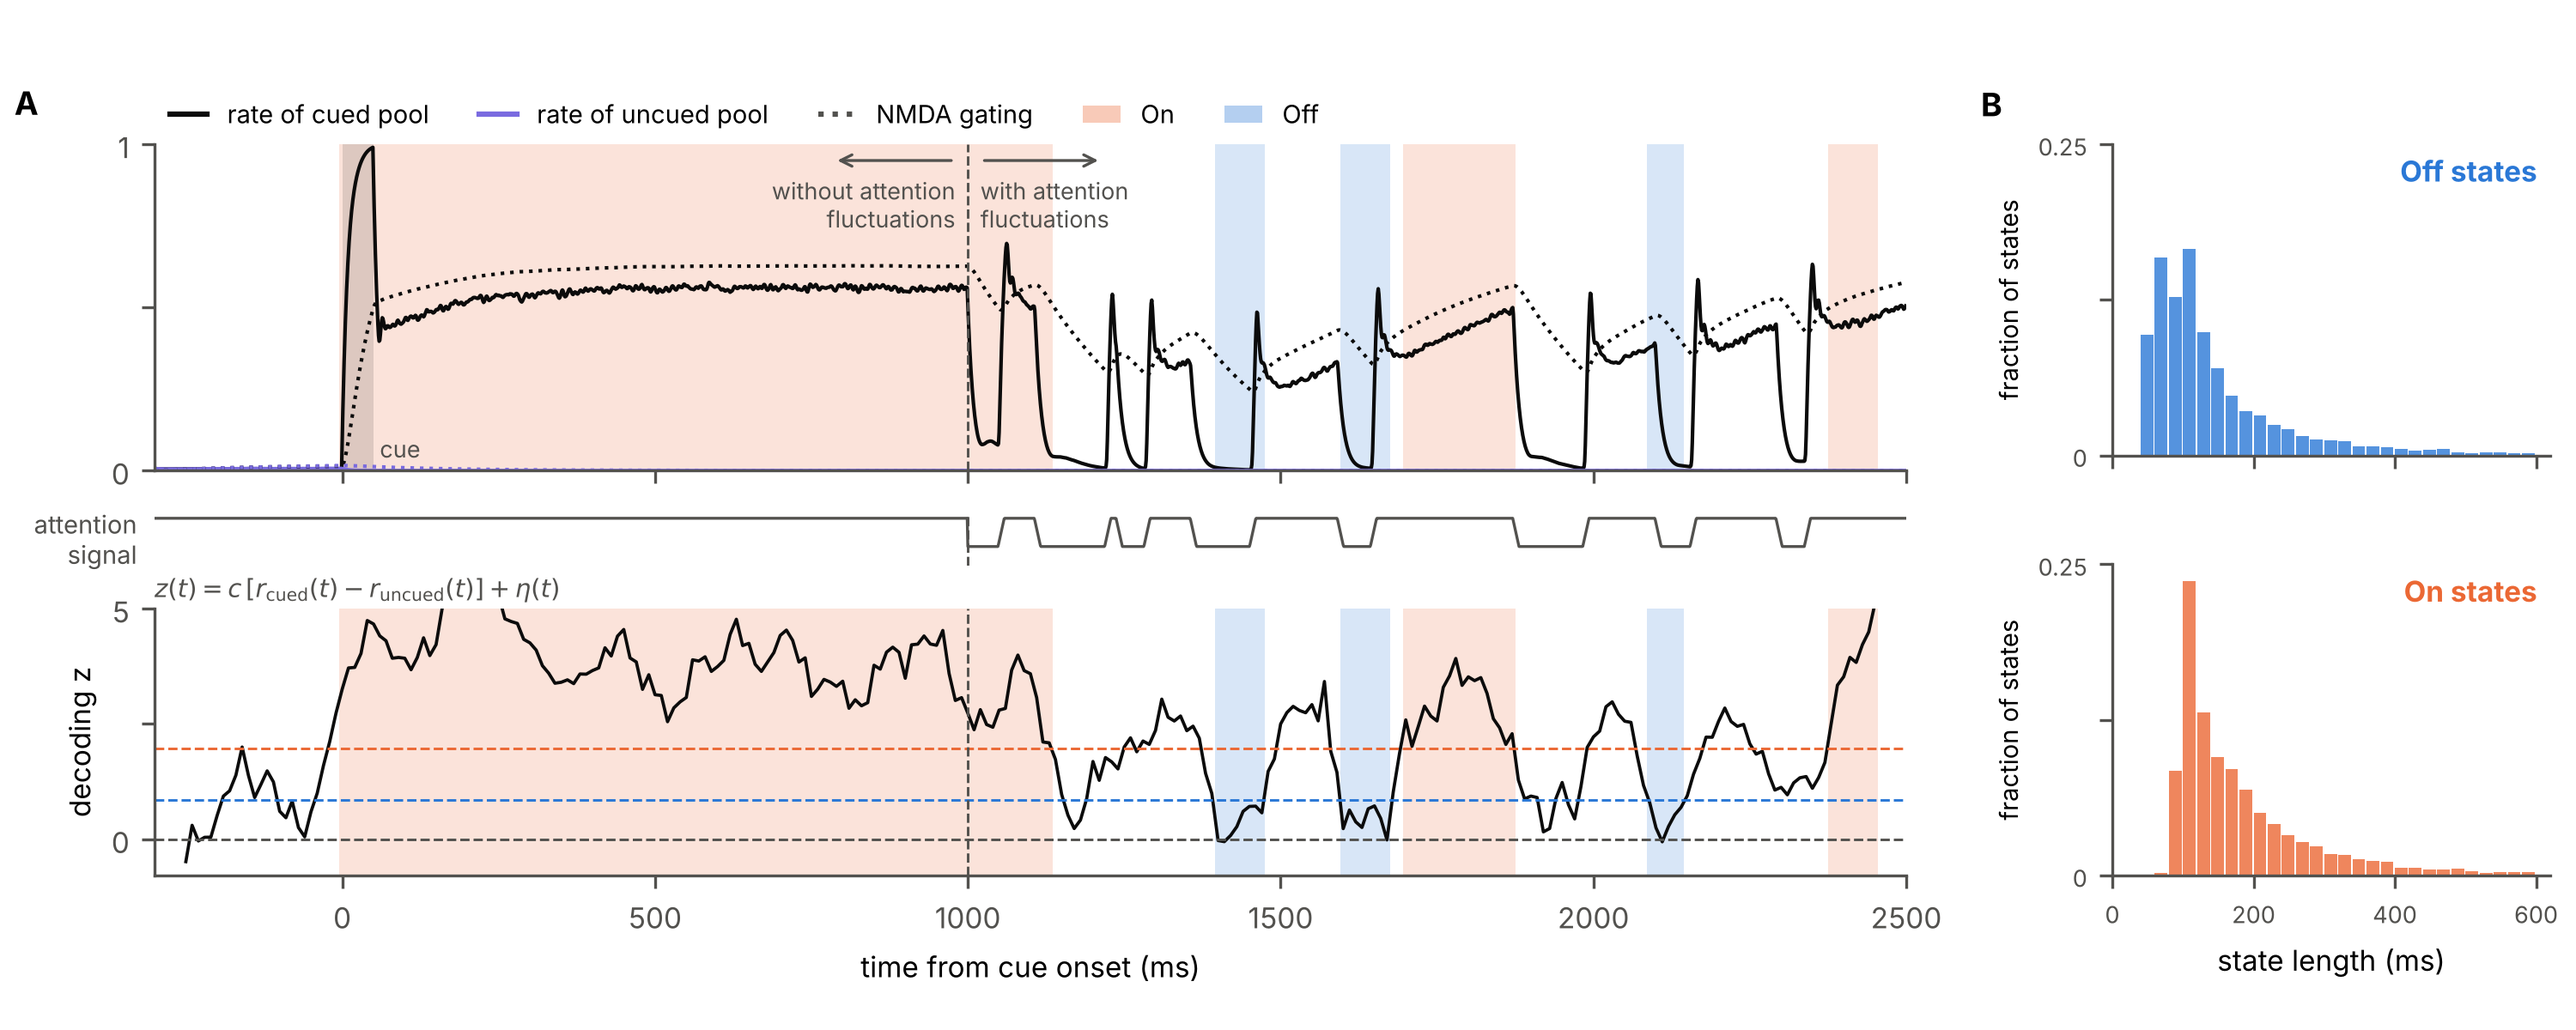
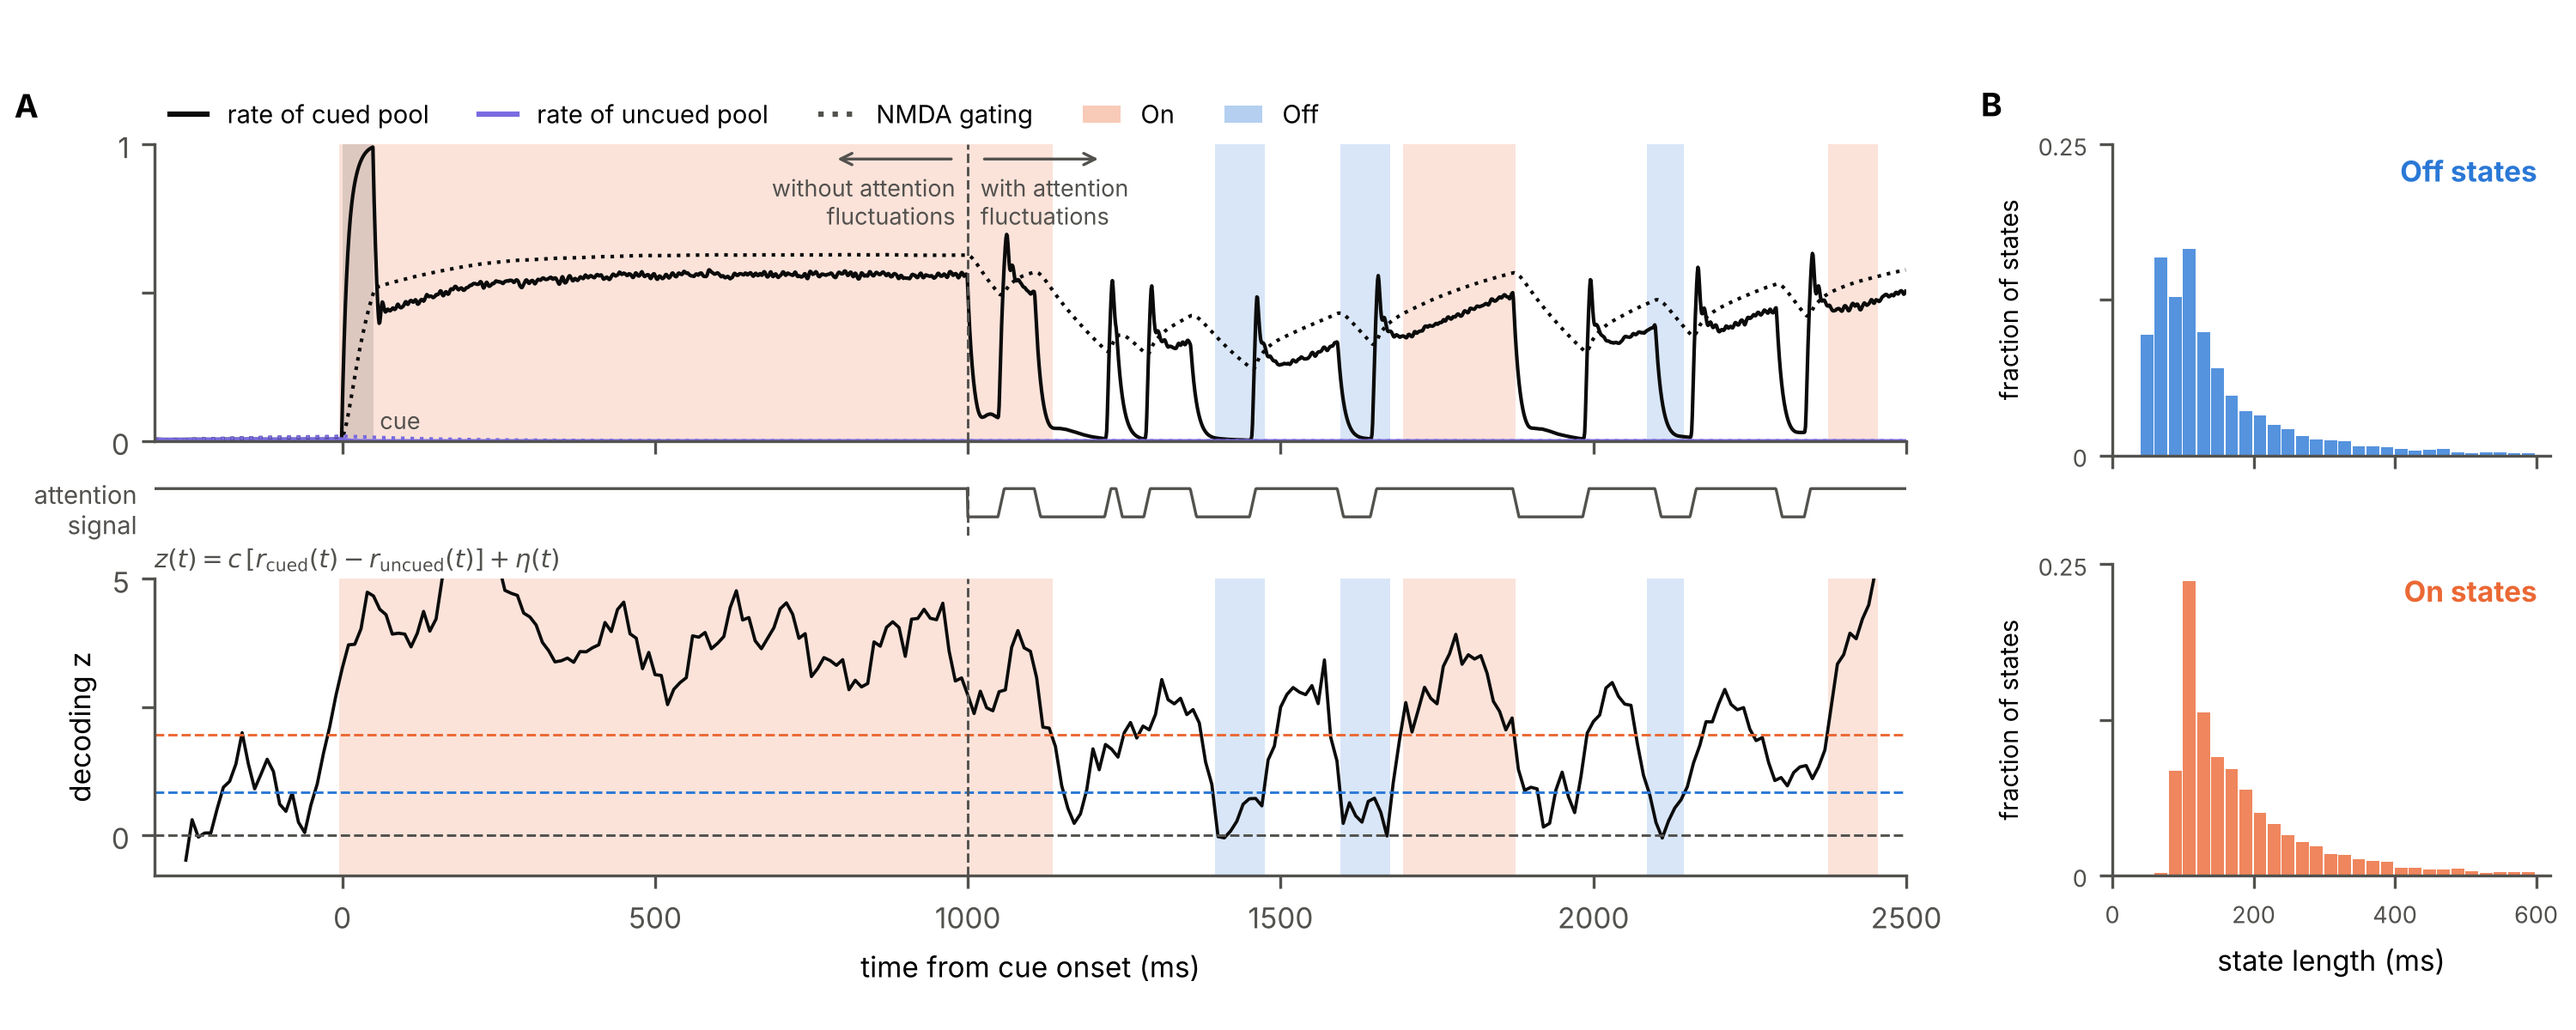
Figure 1: rate and decoding panels the same height
Claude-Session: https://claude.ai/code/session_01DWA8oLxpZgubPZ4A6kb3Lh

diff --git a/paper_model/make_figures.py b/paper_model/make_figures.py
@@ -60,7 +60,7 @@ def figure1(out, path):
     r = out['sets'][FIT_SET]
     tr, t, tz, z, state = example_trial(r['gain'])
     fig = plt.figure(figsize=(10.0, 4.0))
-    gs = fig.add_gridspec(3, 1, height_ratios=[2.2, 0.35, 1.8], hspace=0.2, left=0.06, right=0.74, top=0.86, bottom=0.15)
+    gs = fig.add_gridspec(3, 1, height_ratios=[2.0, 0.35, 2.0], hspace=0.2, left=0.06, right=0.74, top=0.86, bottom=0.15)
     gh = fig.add_gridspec(2, 1, hspace=0.35, left=0.82, right=0.99, top=0.86, bottom=0.15)
     a, b, d = fig.add_subplot(gs[0]), fig.add_subplot(gs[1]), fig.add_subplot(gs[2])
     shade(a, tz, state)
